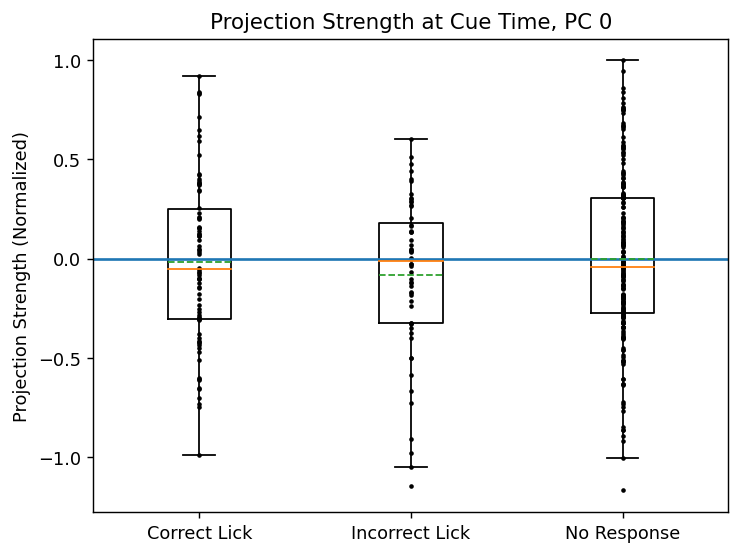
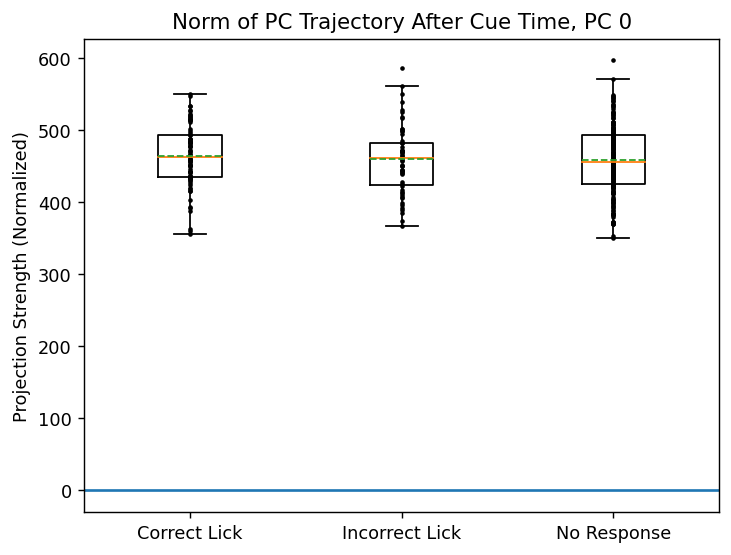
possibly confimed that NN pca causes the effect

diff --git a/spike_analysis/main.py b/spike_analysis/main.py
@@ -152,7 +152,7 @@ if __name__ == '__main__':
     # region config sim and load sim-wide params
     stationary_invert = True
     stationary = True
-    normalize = True
+    normalize = False
     num_pcs = 3
     stims = session.get_task_stimulation()
     dirs = session.get_task_lick_directions()
@@ -167,6 +167,9 @@ if __name__ == '__main__':
     # region non-perturbation trials, error estimation
     trial_mask_left_lick_no_stim = [idx for idx in range(session.get_num_trials())
                                     if (stims[idx, 0] == 0) and (dirs[idx] == 'l')]
+
+    # trial_mask_left_lick_no_stim += [idx for idx in range(session.get_num_trials())
+    #                                 if (stims[idx, 0] == 0) and (dirs[idx] == 'r')]
 
 
     frs_left = session.get_firing_rates(region='left ALM')[:, trial_mask_left_lick_no_stim, :]
@@ -225,6 +228,9 @@ if __name__ == '__main__':
     # region perturbation trials, error estimation
     trial_mask_left_lick_left_stim = [idx for idx in range(session.get_num_trials())
                                     if (stims[idx, 1] == 1) and (dirs[idx] == 'l')]
+    # trial_mask_left_lick_left_stim += [idx for idx in range(session.get_num_trials())
+    #                                 if (stims[idx, 1] == 1) and (dirs[idx] == 'r')]
+
     stims_filt = stims[trial_mask_left_lick_left_stim, :]
     cue_times_filt = cue_times[:, trial_mask_left_lick_left_stim]
     t_perts = stims_filt[:, 2] - cue_times_filt[0,:]
@@ -305,25 +311,33 @@ if __name__ == '__main__':
     if stationary and stationary_invert:
         projs_all = np.cumsum(projs_all, axis=0)
 
-    # get integrals for times after
-    outcomes = session.get_behavior_report()[trial_mask_left_lick_no_stim]
-    # outcomes[outcomes < 0] = 0
-    t_samps = session.get_task_sample_times()[0,trials_mask_all_left]
-    t_cues = session.get_task_cue_times()[0,trials_mask_all_left]
-    t_mask = (ts >= t_samps.mean()) & (ts < t_cues.mean())
-    t_mask = np.argwhere(ts >= 0 and )[0][0]
-    proj_cues = np.squeeze(projs_all[t_mask, :, :])
-    proj_cues = projs_all.mean(axis=0)
-    proj_cues /= np.max(proj_cues,axis=0)
-    print('done')
+    projs_all -= np.mean(projs_all,axis=0)
 
+    # get integrals for times after
+    outcomes = session.get_behavior_report()[trials_mask_all_left]
     right_mask = outcomes == 1
     wrong_mask = outcomes == 0
     no_mask = outcomes == -1
+
+    # outcomes[outcomes < 0] = 0
+    t_samps = session.get_task_sample_times()[0,trials_mask_all_left]
+    t_cues = session.get_task_cue_times()[0,trials_mask_all_left]
+
+    idx_start = np.argwhere(ts>=(t_samps.mean()-cue_times[0,:].mean()))[0][0]
+    idx_end = np.argwhere(ts >= 0)[0][0]
+
+    projs_all -= np.mean(projs_all,axis=0)
+
+    proj_cues = np.linalg.norm(projs_all[:idx_end,:], axis=0)
+
+    proj_cues /= np.max(proj_cues,axis=0)
+    print('done')
+
+
     for i in range(num_pcs):
         if i >= 3:
             break
-        plt.figure('pc '+ str(i) + ' error')
+        plt.figure('pc '+ str(i) + ' error2')
         plt.clf()
         plt.boxplot([proj_cues[right_mask, i], proj_cues[wrong_mask, i], proj_cues[no_mask, i]], sym='',meanline = True, showmeans = True)
         plt.scatter([1] * sum(right_mask), proj_cues[right_mask, i], c='k', marker='.', s=10)
@@ -354,10 +368,53 @@ if __name__ == '__main__':
     # region scratch
     idx_start = np.argwhere(ts>=(t_samps.mean()-cue_times[0,:].mean()))[0][0]
     idx_end = np.argwhere(ts >= 0)[0][0]
-    proj_cues = np.linalg.norm(projs_r2[idx_end:,:], axis=0)
+    proj_cues = np.linalg.norm(projs_all[idx_end:,:], axis=0)
 
-    projs_r2 = A @ components[:, 0]
-    projs_r2 = np.reshape(projs_r2, (num_bins, num_trials))
+    projs_all = (A_all @ components[:, 0]).reshape((num_bins, num_trials_left, 1))
+
+    us,vs =  nonnegative_pca(A)
+    vm = vs[-1]
+
+    projs = (A @ components[:,0]).reshape(num_bins,num_trials)
+    projs_nn = (A @ vm).reshape((num_bins, num_trials, 1))
+
+    if stationary and stationary_invert:
+        projs = np.cumsum(projs,axis=0)
+        projs_nn = np.cumsum(projs_nn,axis=0)
+
+    proj_cues =    np.expand_dims(np.linalg.norm(projs, axis=0),axis=1)
+    proj_cues_nn = np.linalg.norm(projs_nn, axis=0)
+
+    outcomes = session.get_behavior_report()[trial_mask_left_lick_no_stim]
+    right_mask = outcomes == 1
+    wrong_mask = outcomes == 0
+    no_mask = outcomes == -1
+
+    i=0
+    plt.figure('pc ' + str(i) + ' error')
+    plt.clf()
+    plt.boxplot([proj_cues[right_mask, i], proj_cues[wrong_mask, i], proj_cues[no_mask, i]], sym='', meanline=True,
+                showmeans=True)
+    plt.scatter([1] * sum(right_mask), proj_cues[right_mask, i], c='k', marker='.', s=10)
+    plt.scatter([2] * sum(wrong_mask), proj_cues[wrong_mask, i], c='k', marker='.', s=10)
+    plt.scatter([3] * sum(no_mask), proj_cues[no_mask, i], c='k', marker='.', s=10)
+    plt.axhline(0)
+    plt.title("Norm of PC Trajectory After Cue Time, PC " + str(i))
+    plt.ylabel("Projection Strength (Normalized)")
+    plt.xticks([1, 2, 3], labels=['Correct Lick', 'Incorrect Lick', 'No Response'])
+
+    i = 0
+    plt.figure('pc ' + str(i) + ' error nn')
+    plt.clf()
+    plt.boxplot([proj_cues_nn[right_mask, i], proj_cues_nn[wrong_mask, i], proj_cues_nn[no_mask, i]], sym='', meanline=True,
+                showmeans=True)
+    plt.scatter([1] * sum(right_mask), proj_cues_nn[right_mask, i], c='k', marker='.', s=10)
+    plt.scatter([2] * sum(wrong_mask), proj_cues_nn[wrong_mask, i], c='k', marker='.', s=10)
+    plt.scatter([3] * sum(no_mask), proj_cues_nn[no_mask, i], c='k', marker='.', s=10)
+    plt.axhline(0)
+    plt.title("Norm of PC Trajectory After Cue Time, PC " + str(i))
+    plt.ylabel("Projection Strength (Normalized)")
+    plt.xticks([1, 2, 3], labels=['Correct Lick', 'Incorrect Lick', 'No Response'])
     # endregion
 
 # region old code
